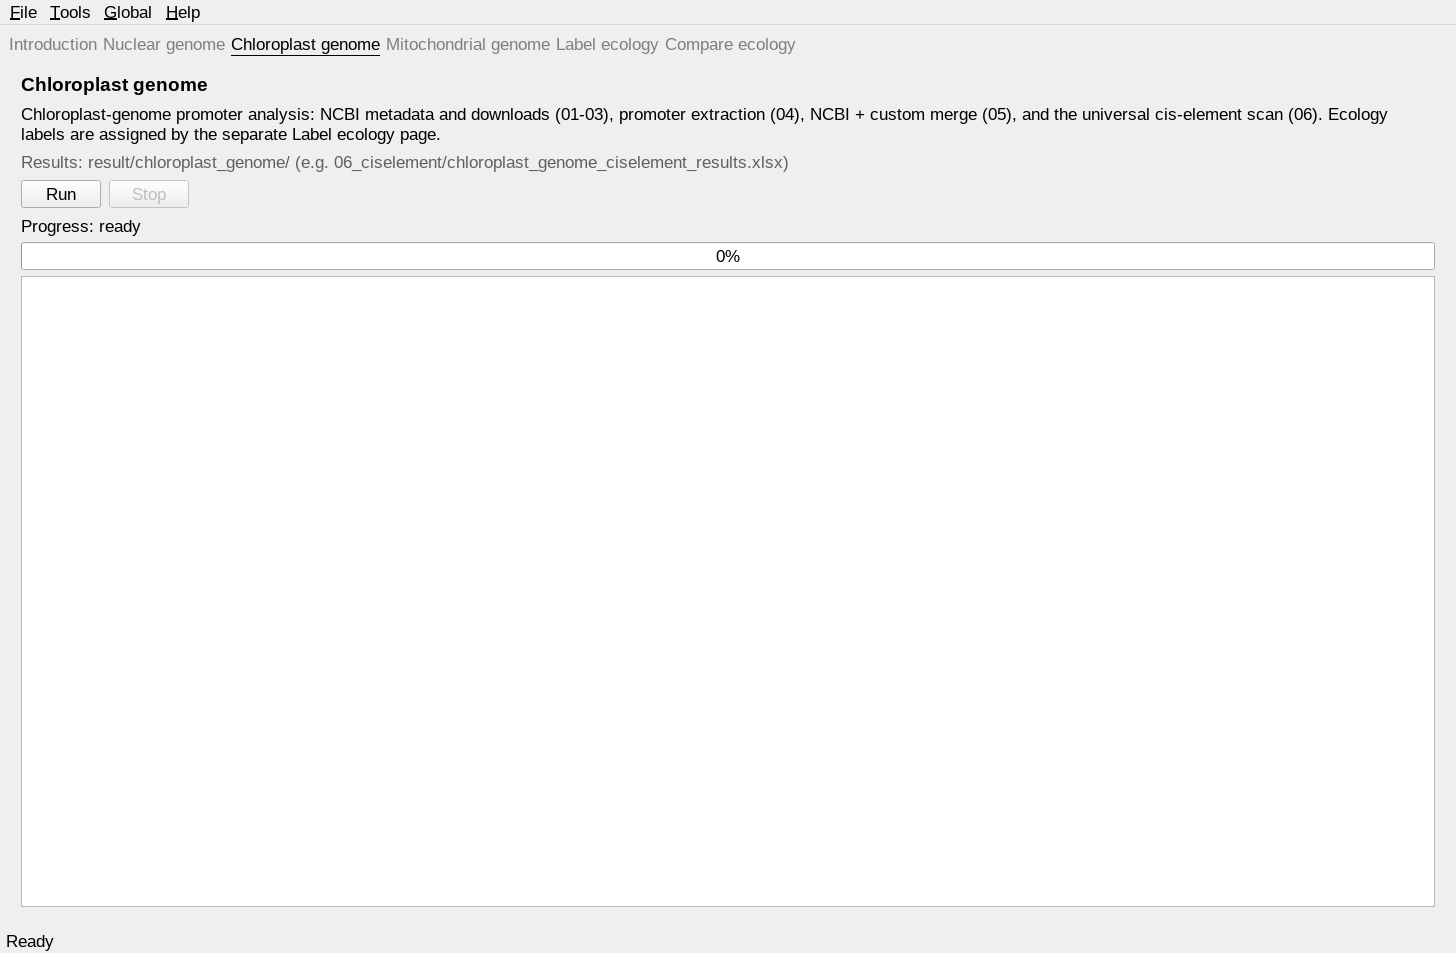
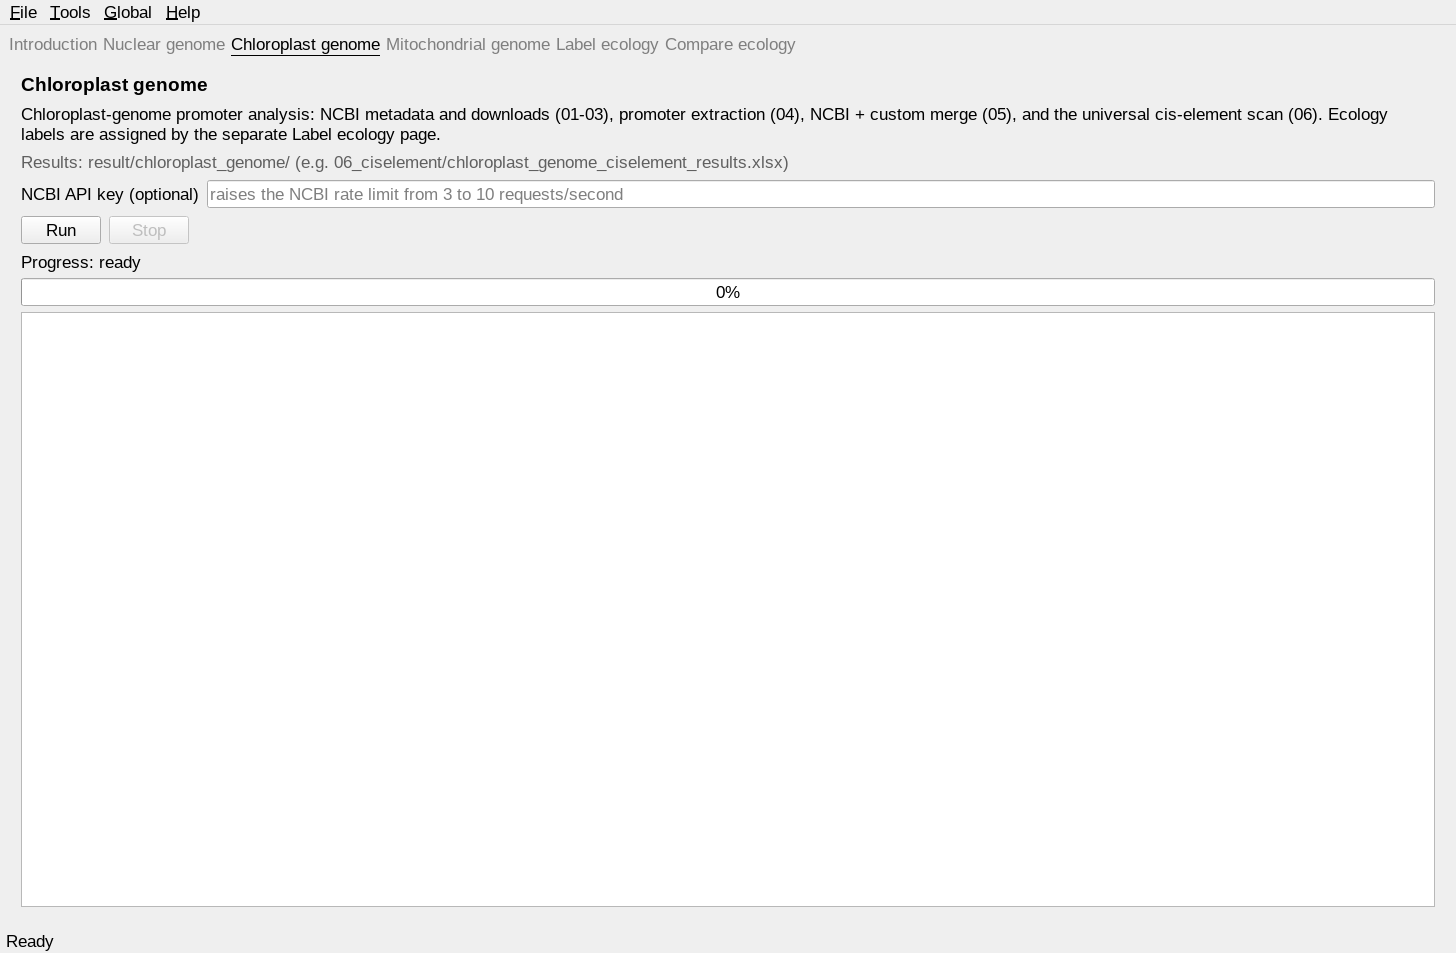
docs: v1.3.25 refreshed screenshots at the current interface

Changed region(s): [[0.0, 0.1826, 0.9581, 0.3347]]

diff --git a/docs/conf.py b/docs/conf.py
@@ -9,8 +9,8 @@ author = "sunshadeCisseeker developers"
 copyright = "2026, sunshadeCisseeker developers"
 
 # The short X.Y version and the full release version.
-version = "v1.3.24"
-release = "v1.3.24"
+version = "v1.3.25"
+release = "v1.3.25"
 
 extensions = [
     "sphinx.ext.autosectionlabel",

diff --git a/docs/content/Screenshots.rst b/docs/content/Screenshots.rst
@@ -15,10 +15,9 @@ prints its run id as the first log line
 (``run started | id=... | scope=...``) — each page tracks only its own run, so
 several pages can run at the same time. The three genome pages additionally
 have an **"NCBI API key (optional)" input** next to Run/Stop (it writes the
-``ncbi_api_key`` entry of ``quickstart_config.yml``; the screenshots below
-show a slightly earlier build without that field). The menu bar on top (File /
-Tools / Global / Help) holds the parameter editor, the two XLSX table editors
-and the remaining functions.
+``ncbi_api_key`` entry of ``quickstart_config.yml``). The menu bar on top
+(File / Tools / Global / Help) holds the parameter editor, the two XLSX table
+editors and the remaining functions.
 
 .. figure:: ../_static/screenshots/01-introduction.png
    :width: 1360

diff --git a/docs/content/Changelog.rst b/docs/content/Changelog.rst
@@ -1,6 +1,15 @@
 Changelog
 =========
 
+1.3.25 — refreshed documentation screenshots
+--------------------------------------------
+
+* The Screenshots page now shows the current interface: every capture was
+  regenerated with the built-in offscreen screenshot mode at the same pixel
+  sizes as before. The new images include the live progress bar, the NCBI
+  API key input on the three genome pages, and the updated Introduction
+  workflow diagram.
+
 1.3.24 — documentation refresh
 ------------------------------
 

diff --git a/docs/content/About sunshadeCisseeker.rst b/docs/content/About sunshadeCisseeker.rst
@@ -4,7 +4,7 @@ About sunshadeCisseeker
 sunshadeCisseeker identifies, annotates and compares promoter
 cis-regulatory elements across sun / facultative / shade plants.
 
-The current release is **1.3.24**; see :doc:`Changelog` for what changed in
+The current release is **1.3.25**; see :doc:`Changelog` for what changed in
 each version.
 
 Highlights
